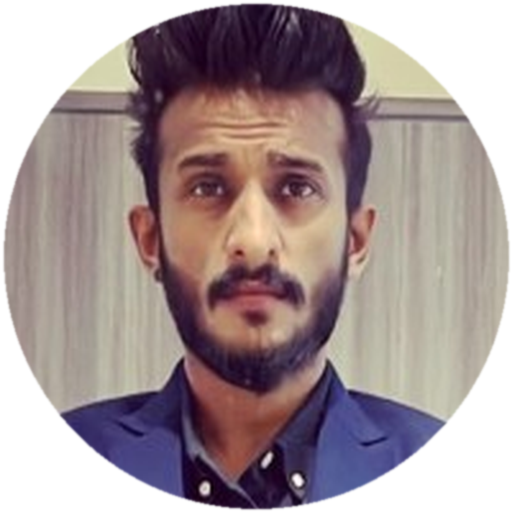
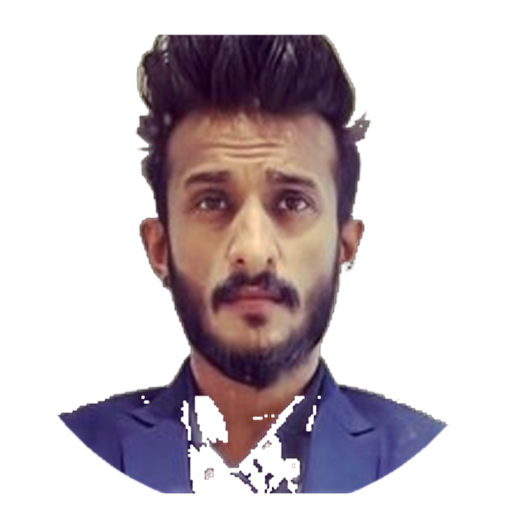
Swap profile UI to black-background cutout
Rebuild the circular avatar from the transparent cutout and feature
that studio-style black portrait in About instead of the beige crop.

diff --git a/src/components/sections/AboutSection.tsx b/src/components/sections/AboutSection.tsx
@@ -98,29 +98,29 @@ export function AboutSection() {
  className="relative shrink-0"
  >
  <div
- className="absolute -inset-3 rounded-full opacity-70 blur-2xl"
+ className="absolute inset-0 rounded-full opacity-80 blur-2xl"
  style={{
  background:
- "radial-gradient(circle, rgba(var(--accent-rgb),0.35) 0%, transparent 70%)",
+ "radial-gradient(circle, rgba(var(--accent-rgb),0.4) 0%, transparent 68%)",
  }}
  />
  <motion.div
- className="relative h-36 w-36 overflow-hidden rounded-full border border-[color:rgba(var(--accent-rgb),0.5)] md:h-44 md:w-44"
+ className="relative flex h-40 w-40 items-end justify-center overflow-hidden rounded-full border border-[color:rgba(var(--accent-rgb),0.45)] bg-[#050505] md:h-48 md:w-48"
  animate={{
  boxShadow: [
  "0 0 0 0 rgba(var(--accent-rgb),0)",
- "0 0 28px 4px rgba(var(--accent-rgb),0.35)",
+ "0 0 32px 4px rgba(var(--accent-rgb),0.38)",
  "0 0 0 0 rgba(var(--accent-rgb),0)",
  ],
  }}
  transition={{ duration: 3.6, repeat: Infinity }}
  >
  <Image
- src="/profile/tushant-circle.png"
+ src="/profile/tushant.png"
  alt="Tushant Sharma — Director of Product Management"
- width={176}
- height={176}
- className="h-full w-full object-cover"
+ width={192}
+ height={192}
+ className="h-[108%] w-[108%] object-contain object-bottom"
  priority
  />
  </motion.div>
